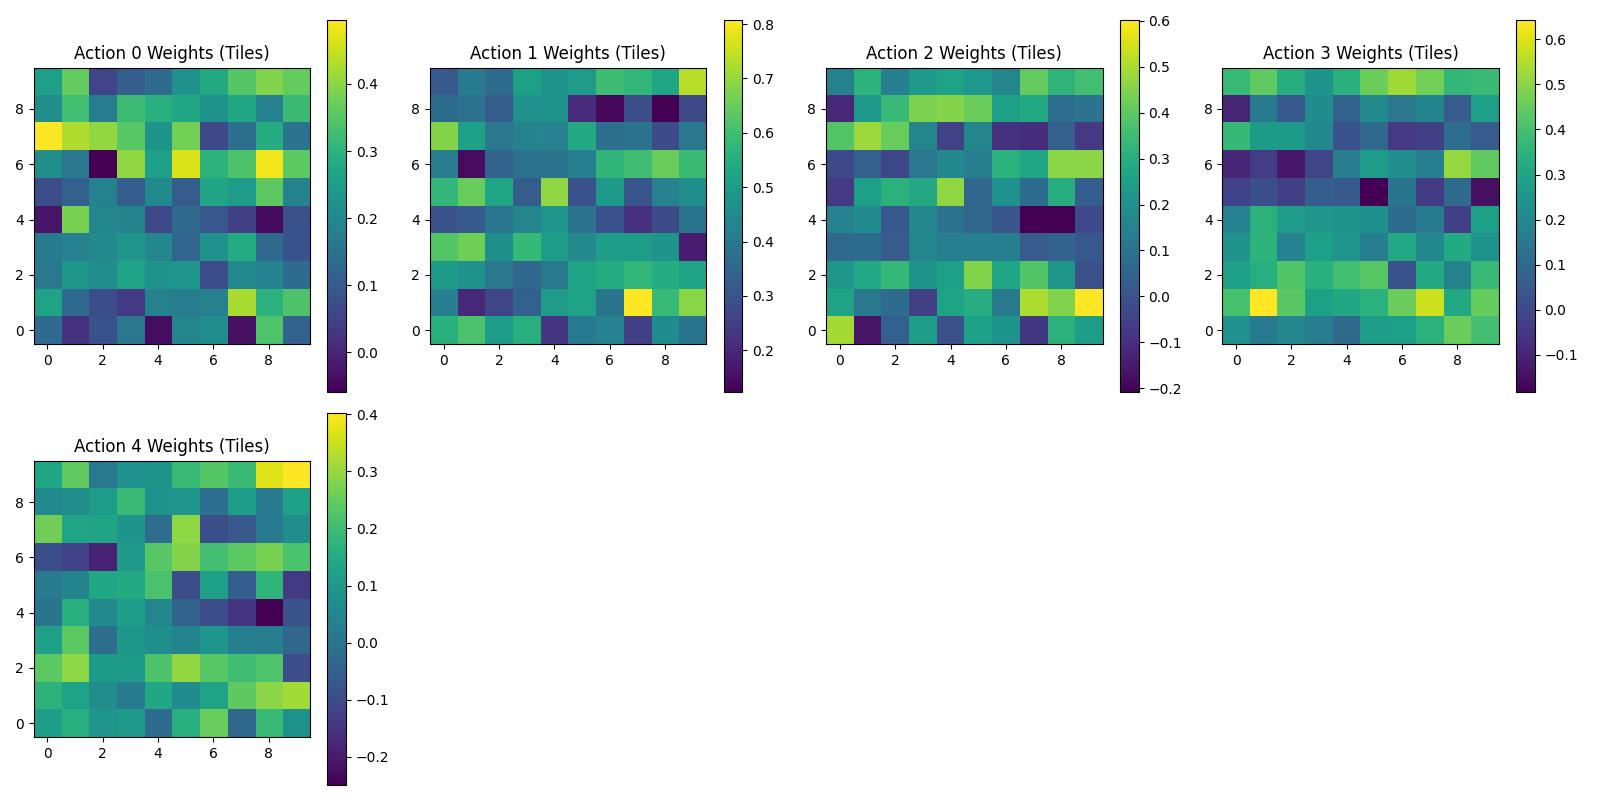
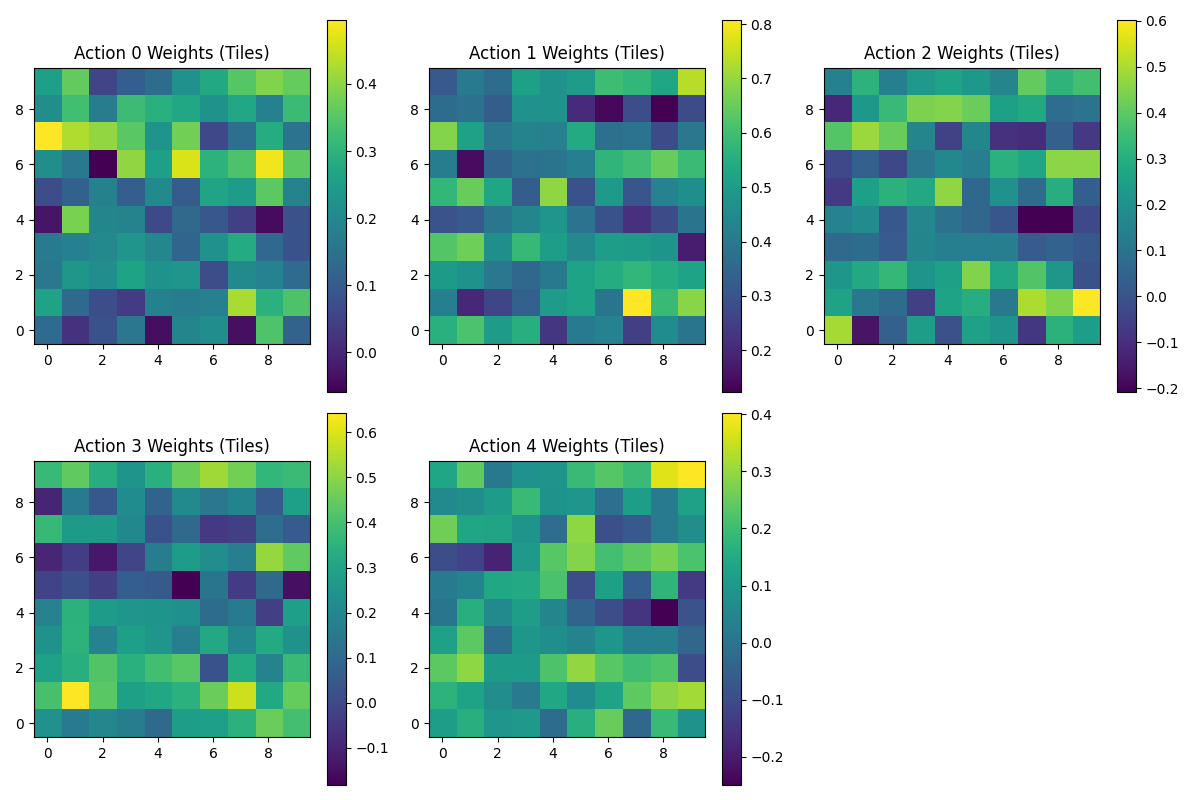
fix: heatmap columns

diff --git a/src/td_lambda.py b/src/td_lambda.py
@@ -413,7 +413,7 @@ class TDLambdaAgent:
         For vectorized: reshape if possible, else plot as 1D.
         """
         num_actions = self.num_actions
-        n_cols = min(4, num_actions)
+        n_cols = min(3, num_actions)
         n_rows = (num_actions + n_cols - 1) // n_cols
         fig, axes = plt.subplots(n_rows, n_cols, figsize=(4*n_cols, 4*n_rows))
         axes = axes.flatten() if num_actions > 1 else [axes]
